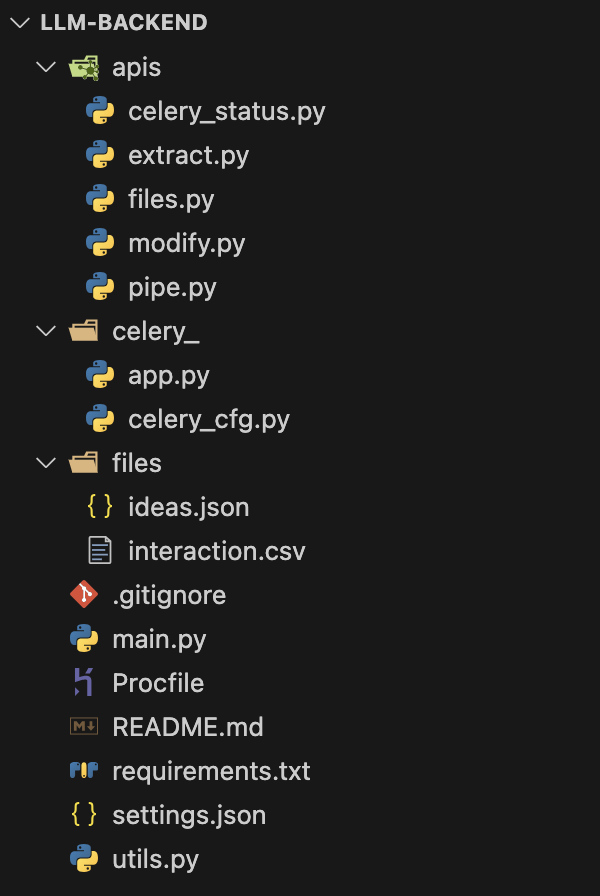
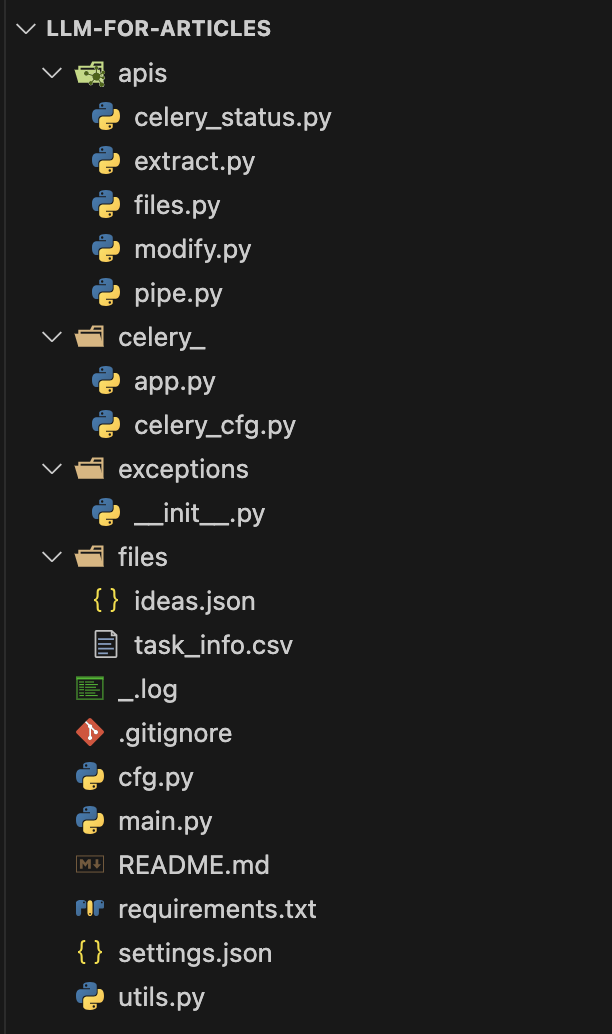
partilal LLM completion

Changed region(s): [[0.03, 0.0, 0.54, 1.0], [0.06, 0.5, 0.09, 0.5312], [0.06, 0.3438, 0.09, 0.375]]

diff --git a/_posts/2024-01-10-explaining-news-using-llms.md b/_posts/2024-01-10-explaining-news-using-llms.md
@@ -20,17 +20,43 @@ The system uses a Flask backend which has been deployed as a backend service int
 
 ![architecture](/assets/img/llms/pipeline-architecture.png)
 
-The directory structure of the project is shown in the figure below which is the exact version as seen on Github.
-
-<figure>
-<img src="/assets/img/llms/directory-structure.png" width=450 height=650>
-</figure>
-
-
 Firstly, we use OpenAI to summarise the provided text because of its training model optimised by human feedback. Summarisation has the ability to not only shorten the length, but also improve the semantic details that fail to be noticed in lines of text. Secondly, we use Meaningcloud Text clustering API to cluster the summarised sentences based on their semantics and assign a descriptive label to each cluster. Instead of the basic document grouping mode, we choose the topic modelling mode implemented with the K-means algorithm. This approach helps to discover hidden themes in sentences by providing more descriptive labels than classical clustering algorithms. With the descriptive labels of each cluster, we again used OpenAI to extract the keywords from the summarised transcriptions. Instead of RAKE, Spacy, and TextRank, we chose OpenAI as it suits the context of the work. For example, only OpenAI supports extraction of both keyword and keyphrases. The industry explorations reveal that the keywords extracted by OpenAI were more meaningful and closer to reflect the gist of text provided. For layers with optional image toggles, we fetched the images based on each keyword/keyphrase using Google Image Search.
 
+## Directory Structure
+<br/>
+<div style="float: left; margin-right: 10px;">
+  <img src="/assets/img/llms/directory-structure.png" width="350" height="591" alt="Directory Structure">
+</div>
 
-<h1 style="text-align:left;" >Under Construction. Uh oh!</h1>
+The directory structure of the project is shown in the figure beside which can also be seen on Github [`here`](https://github.com/coderjolly/llm-for-articles). The repository is kept private because of plagiarism reasons. 
+
+While the segregation of folders and their respective functions is understood, the `apis` directory incorporates all the APIs using Flask Blueprints that have been registed in `main.py`. 
+
+The `celerey_` directory is resposible for controlling and initializing celery and the `exceptions` directory is used to handle a <u>CustomErrors</u>.
+
+Integration of OpenAI APIs for processing pipeline tasks like <u>Summarization, Keyword Extraction & Clustering</u> and <u>Theme Assignment</u> are kept under `utils.py` as utility functions or helper functions for integrating the above mentioned modules.
+
+Config variables like <u>max_tokens</u> for the API keys of `GPt 3.5 Turbo` and `Embedding Models` are located under `cfg.py` followed by the <u>google-search_key</u> and <u>engine_key</u> for finding image-addresses.
+
+## Installation
+
+Whenever dealing with python based applications, it is a very good practice to make a virtual environment and then deal with the process of installing libraries and dependencies as the installation then affects one particular environment. One can use any virtual environment to inilise this project by either using `venv` or `conda`.
+
+Next, we need to make sure that our dependies are in order, so we will use the following command to run the requirements for this project. The command is as follows:
+
+```python
+pip install -r requirements.txt
+```
+
+After the successfull installation of the libraries and dependencies, we will proceed forward to run the application by running the server from `main.py`. The command is as follows:
+
+```python
+python3.8 main.py
+```
+Following this, a prompt will be generated asking to route the attention to `locahost:5000` which is the default server address for this application rendering a front-end to interact with the user.
+
+
+<h1 style="text-align:left;" >Under Construction, Uh oh!</h1>
 <section class="lost-container">
   <!-- <h1 style="text-align:left;" >Uh oh!</h1> -->
   <div style="text-align:left;" class="link">

diff --git a/_posts/2023-05-15-credit-risk-modelling.md b/_posts/2023-05-15-credit-risk-modelling.md
@@ -19,7 +19,7 @@ Even though the results of these models are binary, that whether a person is ris
 
 ## Modelling Workflow
 
-As the defaulters are a small percentage of the total population, the data becomes is highly imbalanced in these situations. This writing investigates the use of data under-sampling and oversampling techniques for resolving this class imbalance, the development of different classification machine learning models, and methodologies for comparing and evaluating these models. The code for this flow can be seen in the Github [`repo`](https://github.com/coderjolly/credit-risk-modelling){:target="_blank"}.
+As the defaulters are a small percentage of the total population, the data becomes is highly imbalanced in these situations. This writing investigates the use of data under-sampling and oversampling techniques for resolving this class imbalance, the development of different classification machine learning models, and methodologies for comparing and evaluating these models. The code for this flow can be seen in the Github [`repo`](https://github.com/coderjolly/credit-risk-modelling){:target="_blank"}. The repository is kept private because of plagiarism reasons.
 
 <figure>
 <img src="/assets/img/credit-card-risk-modelling/ML-workflow.png" width=700 style="display: block; margin: 0 auto">

diff --git a/_posts/2022-12-22-steamgestion-data-pipeline.md b/_posts/2022-12-22-steamgestion-data-pipeline.md
@@ -27,6 +27,8 @@ with an interconnection with ``Celery`` workers capable of horizontal pod scalin
 
 ![architecture](/assets/img/steamgestion/architecture.png)
 
+## Directory Structure
+
 The directory structure of the project is also shown in the figure below which is the exact version as seen on Github repository [here](https://github.com/coderjolly/data-ingestion-pipeline){:target="_blank"}.
 
 ![directory-structure](/assets/img/steamgestion/directory-structure.jpg)
